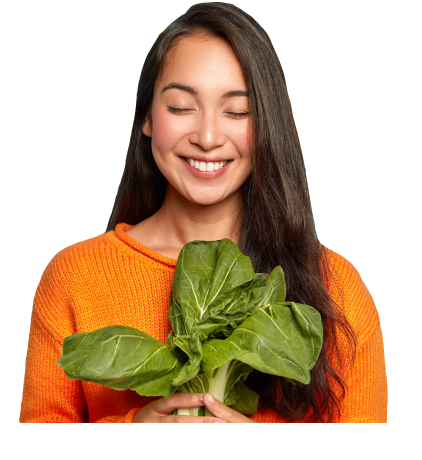
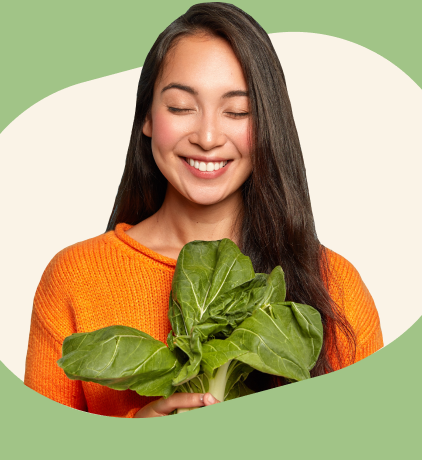
start

Changed region(s): [[0.0, 0.6696, 1.0, 1.0], [0.0, 0.0, 1.0, 0.3043]]

diff --git a/css/hero.css b/css/hero.css
@@ -145,8 +145,8 @@ text-transform: uppercase;
 }
 .hero-list-img img {
    margin: 0 auto;
-   width: 230px;
-   height: 228px;
+   width: 278px;
+height: 228px;
    
 }
 .hero-list-menu {
@@ -232,8 +232,8 @@ text-transform: uppercase;
       margin-bottom: 8px;
    }
    .hero-list-img img{
-      width: 389px;
-      height: 388px;
+      width: 466px;
+      height: 380px;
    }
    .hero-list-nav{
       width: 214px;
@@ -285,7 +285,18 @@ text-transform: uppercase;
       line-height: 1;
    }
    .hero-list-img img{
-      width: 422px;
-      height: 460px;
+      width: 515px;
+      height: 423px;
    }
+  /*.picture{
+   width: 515px;
+   height: 423px;
+  }
+  .picture1{
+   width: 341.032px;
+   height: 513px;
+   transform: rotate(-105deg);
+border-radius: 500px;
+background: #FFF;
+  }*/
 }

diff --git a/README.md b/README.md
@@ -1,1 +1,1 @@
-# group-hero
+# goit-markup-hw-06
